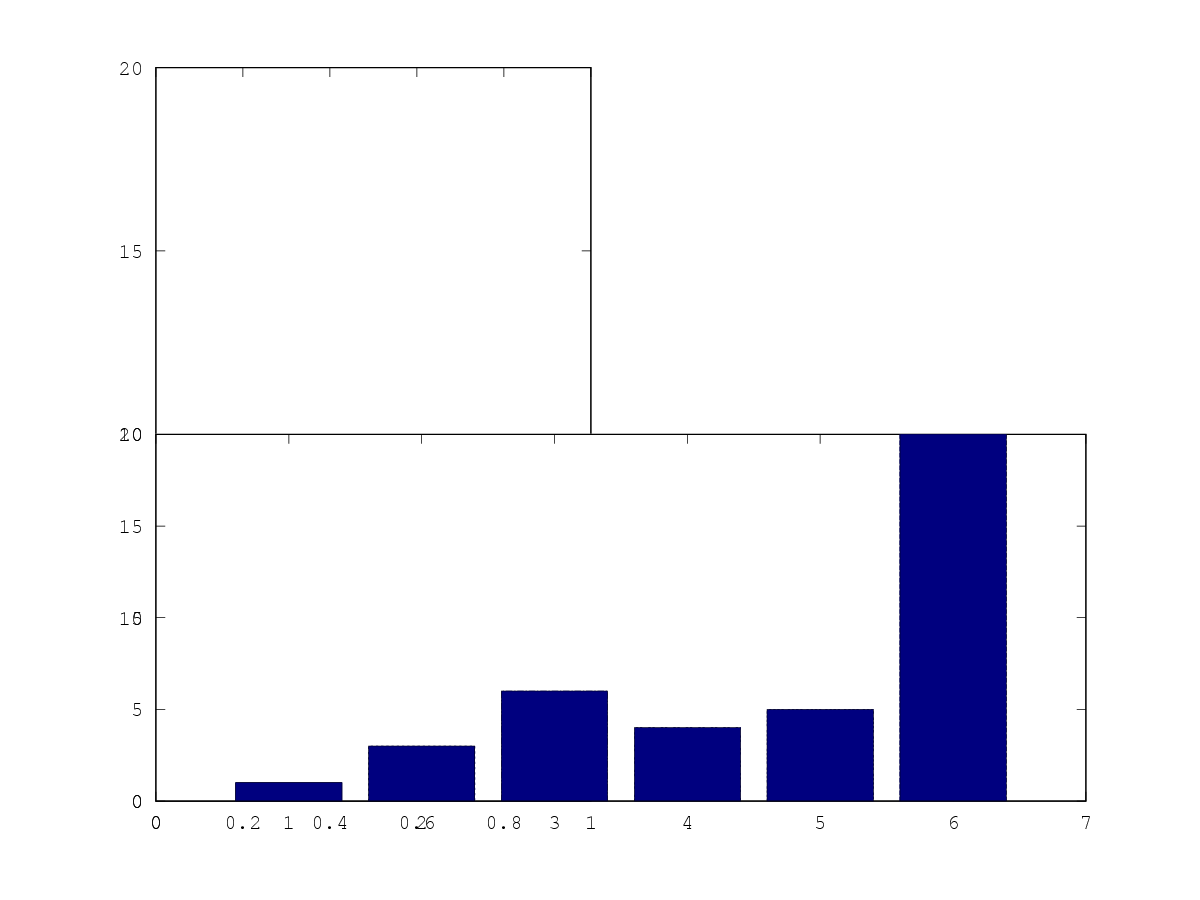
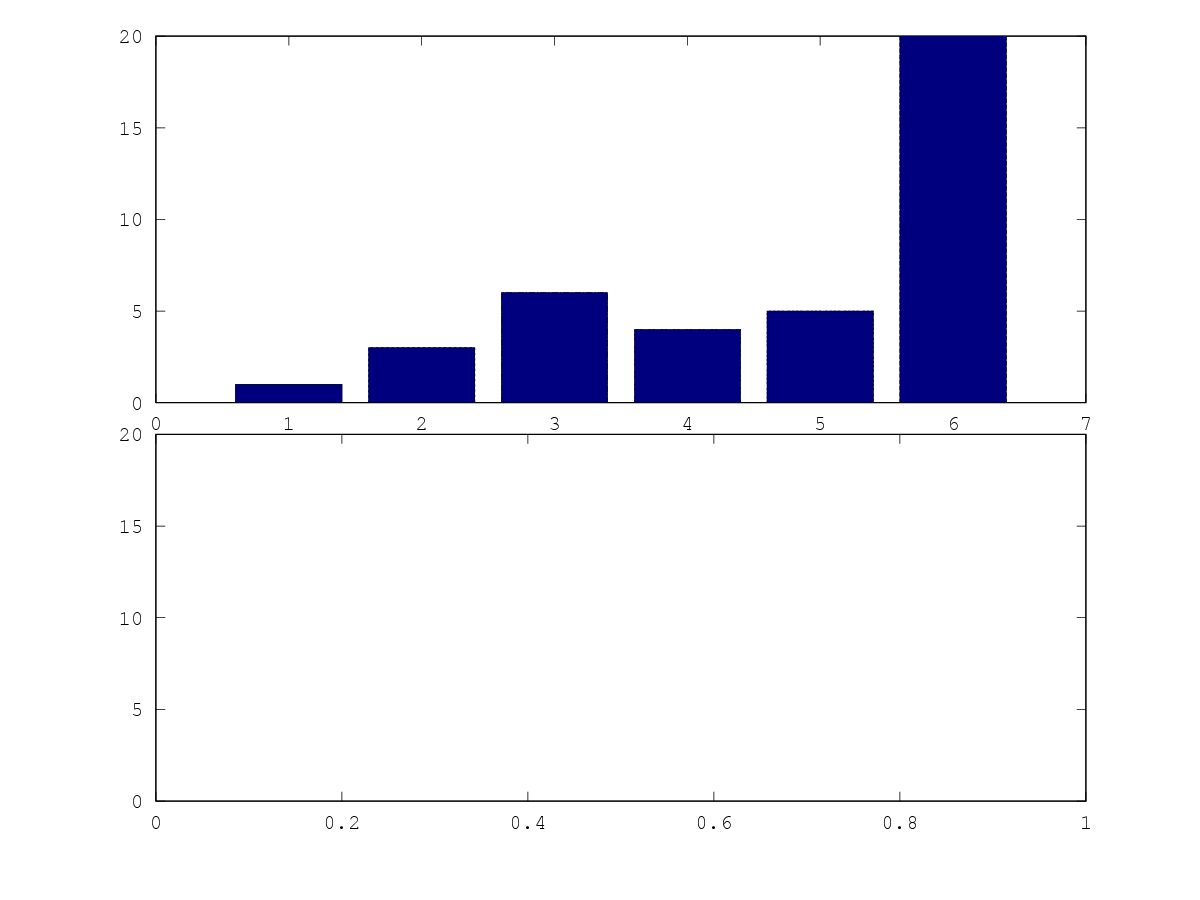
break_axis.m

Changed region(s): [[0.185, 0.0311, 0.8633, 0.9333], [0.4625, 0.0622, 0.4933, 0.0933]]

diff --git a/break_axis.m b/break_axis.m
@@ -12,8 +12,8 @@ p0=get(gca,'position')
 delete(gcf);
 
 % create axis1
-a1=axes('position',[p0(1) p0(2) p0(3)/2-.025 p0(4)]);
-%a1=axes('position',[p0(1) p0(2) p0(3) p0(4)/2]);
+%a1=axes('position',[p0(1) p0(2) p0(3)/2-.025 p0(4)]);
+a1=axes('position',[p0(1) p0(2) p0(3) p0(4)/2]);
 %a2=axes('position',[p0(1) p0(4)/2+.145 p0(3) p0(4)/2])
 %barh(a);
 %bar(a);
@@ -24,9 +24,9 @@ set(a1,'ylim',ylim1);
 
 % create axis2
 %a2=axes('position',[p0(1)+p0(3)/2+.025 p0(2) p0(3)/2-.025 p0(4)]);
+a2=axes('position',[p0(1) p0(4)/2+.145 p0(3) p0(4)/2])
 %a2=axes('position',[p0(1) p0(4)/2+.145 p0(3) p0(4)/2])
-%a2=axes('position',[p0(1) p0(4)/2+.145 p0(3) p0(4)/2])
-a2=axes('position',[p0(1) p0(2) p0(3) p0(4)/2]);
+%a2=axes('position',[p0(1) p0(2) p0(3) p0(4)/2]);
 %barh(a);
 bar(a);
 
